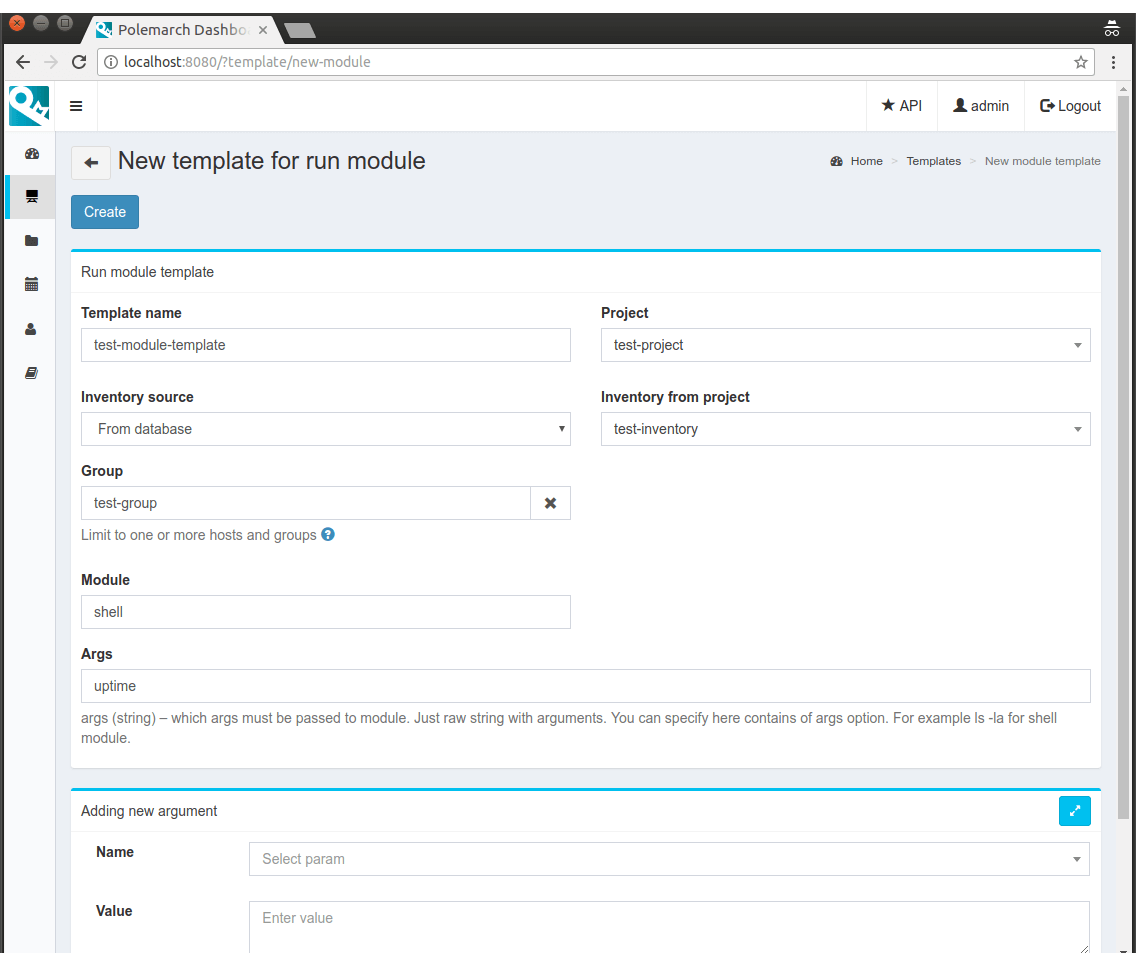
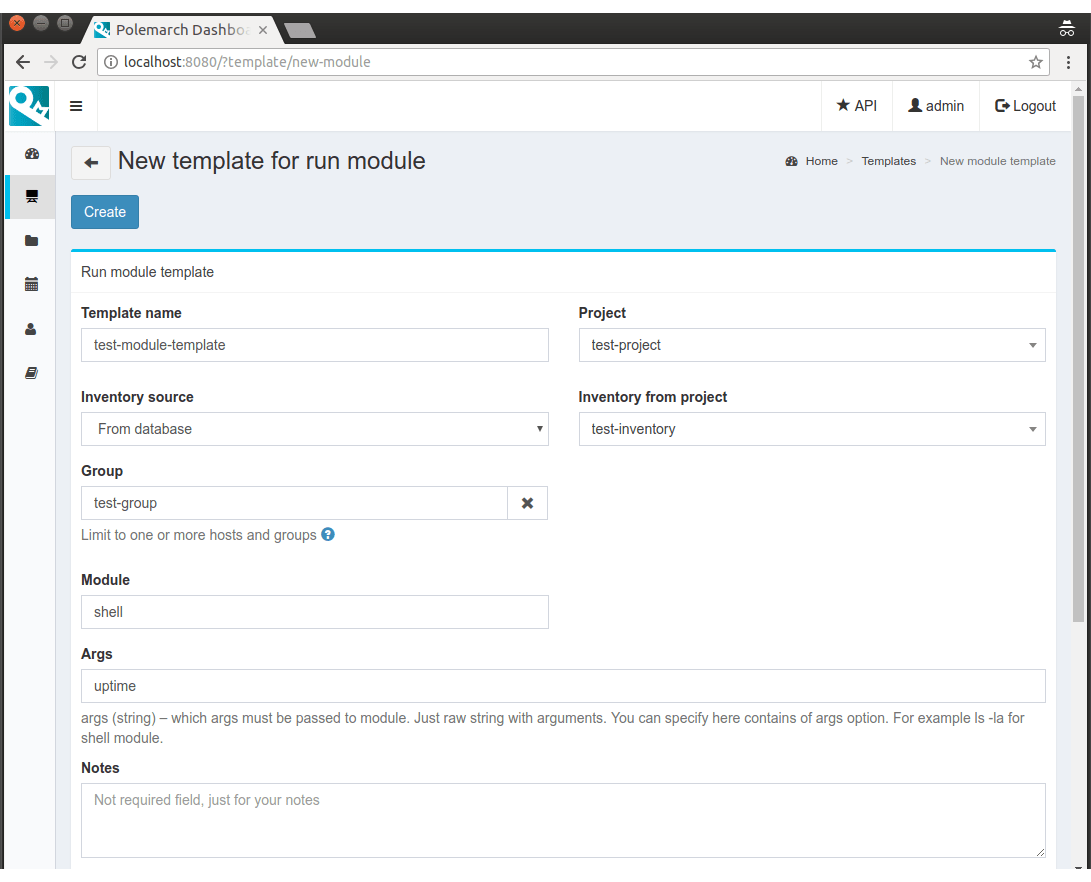
Part of screenshots from GUI DOCS was updated.
Bug with not collapsed sidebar was fixed.

polemarch/ce#3

[ci skip]

diff --git a/polemarch/static/js/common.js b/polemarch/static/js/common.js
@@ -187,88 +187,78 @@ window.onresize=function ()
         }
     }
 }
- function setActiveMenuLiBase()
+function setActiveMenuLiBase()
 {
     if(/\?projects/.test(window.location.href) || /\?project/.test(window.location.href) ||
         /\?new-project/.test(window.location.href))
     {
-        $("#menu-projects").addClass("active active-li");
+        $("#menu-projects").addClass("pm-treeview-active active active-li active-bold");
         $("#menu-projects-projects").addClass("active-bold");
+        $("#menu-projects").removeClass("pm-treeview");
     }
     else if(/\?templates/.test(window.location.href) ||
         /\?template/.test(window.location.href))
     {
-        $("#menu-projects").addClass("active active-li");
+        $("#menu-projects").addClass("pm-treeview-active active active-li");
         $("#menu-projects-templates").addClass("active-bold");
+        $("#menu-projects").removeClass("pm-treeview");
     }
     else if(/\?hosts/.test(window.location.href) || /\?host/.test(window.location.href) ||
         /\?new-host/.test(window.location.href))
     {
-        $("#menu-inventories").addClass("active active-li");
+        $("#menu-inventories").addClass("pm-treeview-active active active-li");
         $("#menu-inventories-hosts").addClass("active-bold");
+        $("#menu-inventories").removeClass("pm-treeview");
     }
     else if(/\?new-group/.test(window.location.href) || /\?groups/.test(window.location.href) ||
         /\?group/.test(window.location.href))
     {
-        $("#menu-inventories").addClass("active active-li");
+        $("#menu-inventories").addClass("pm-treeview-active active active-li");
         $("#menu-inventories-groups").addClass("active-bold");
+        $("#menu-inventories").removeClass("pm-treeview");
     }
     else if(/\?inventories/.test(window.location.href) || /\?inventory/.test(window.location.href) ||
         /\?new-inventory/.test(window.location.href))
     {
-        $("#menu-inventories").addClass("active active-li");
+        $("#menu-inventories").addClass("pm-treeview-active active active-li active-bold");
         $("#menu-inventories-inventories").addClass("active-bold");
+        $("#menu-inventories").removeClass("pm-treeview");
     }
     else if(/\?history/.test(window.location.href)){
 
-        $("#menu-history").addClass("active active-li");
+        $("#menu-history").addClass("active active-li active-bold");
     }
     else if(/\?users/.test(window.location.href) || /\?user/.test(window.location.href) ||
         /\?new-user/.test(window.location.href) || /\?profile/.test(window.location.href))
     {
-        $("#menu-users").addClass("active active-li");
+        $("#menu-users").addClass("active active-li active-bold");
     }
     else
     {
-        $("#menu-home").addClass("active active-li");
+        $("#menu-home").addClass("active active-li active-bold");
     }
 }
 
 function setActiveMenuLi()
 {
-    if($('li').is('.active-li'))
+    if($('li').is('.pm-treeview-active'))
     {
-        var t=$(".active-li")[0];
-        $(t).removeClass("active");
-        $(t).removeClass("active-li");
+        var t=$(".pm-treeview-active");
+        $(t).addClass("pm-treeview");
+        $(t).removeClass("pm-treeview-active");
     }
 
-    if($('li').is(".treeview"))
+    if($('li').is('.active-li'))
     {
-        var s=$(".treeview");
-        for(var i=0; i<s.length; i++)
-        {
-            $(s).removeClass("active");
-        }
-
-        if($('ul').is('.treeview-menu'))
-        {
-            var s1=$(".treeview-menu");
-            for(var i=0; i<s1.length; i++)
-            {
-                $(s1).removeClass("menu-open");
-                $(s1).attr("style", "");
-            }
-        }
+        var t=$(".active-li");
+        $(t).removeClass("active");
+        $(t).removeClass("active-li");
     }
 
     if($('li').is('.active-bold'))
     {
         var g=$(".active-bold");
-        for(var i=0; i<g.length; i++)
-        {
-            $(g).removeClass("active-bold");
-        }
+        $(g).removeClass("active-bold");
     }
 
     return setActiveMenuLiBase();
@@ -282,4 +272,4 @@ tabSignal.connect("loading.completed", function()
 })
 
 //remove this string, when android app code be ready and after that check correct work on PC
-    setActiveMenuLiBase();
+setActiveMenuLiBase();

diff --git a/polemarch/static/css/gui.css b/polemarch/static/css/gui.css
@@ -745,7 +745,8 @@ table{
 
 .sidebar-menu>li.pm-treeview-active>.pm-treeview-menu>li>a:hover,
 .pm-treeview-active>a:hover,
-.sidebar-mini.sidebar-collapse .sidebar-menu>li.pm-treeview-active>a{
+.sidebar-mini.sidebar-collapse .sidebar-menu>li.pm-treeview-active>a,
+.sidebar-mini.sidebar-collapse .sidebar-menu>li.active-li>a {
     background-color: #E0E0E0!important;
 }
 
@@ -790,7 +791,6 @@ table{
     background-color: #fcfcfc;
     box-shadow: 2px 1px 3px rgba(0,0,0,0.1);
     width: 180px;
-    list-style: none;
     border-left: none;
     border-top: 1px solid #d2d6de;
     border-bottom-right-radius: 4px;
@@ -811,14 +811,14 @@ table{
 }
 
 .sidebar-mini.sidebar-collapse .sidebar-menu>li>a>.li-header-span,
-.sidebar-mini.sidebar-collapse .sidebar-menu>.pm-treeview-active:hover pm-treeview-menu>li>.li-header-span {
+.sidebar-mini.sidebar-collapse .sidebar-menu>.pm-treeview-active:hover .pm-treeview-menu>li>.li-header-span {
     background-color: #fcfcfc!important;
     box-shadow: 2px 1px 3px rgba(0,0,0,0.1);
 }
 
 
 .sidebar-mini.sidebar-collapse .sidebar-menu>li>a>.li-header-span:hover,
-.sidebar-mini.sidebar-collapse .sidebar-menu>.pm-treeview-active:hover pm-treeview-menu>li>.li-header-span:hover,
+.sidebar-mini.sidebar-collapse .sidebar-menu>.pm-treeview-active:hover .pm-treeview-menu>li>.li-header-span:hover,
 .sidebar-mini.sidebar-collapse .sidebar-menu>.pm-treeview-active:hover .pm-treeview-menu>li>a:hover,
 .sidebar-mini.sidebar-collapse .sidebar-menu>.pm-treeview:hover .pm-treeview-menu>li>a:hover {
     background-color: #EEEEEE!important;
